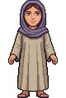
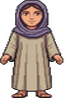
Fix Maria cutout background and ground alignment in world

diff --git a/apps/mobile-app/app/(tabs)/world.tsx b/apps/mobile-app/app/(tabs)/world.tsx
@@ -183,6 +183,15 @@ export default function WorldScreen() {
     }
   };
 
+  useEffect(() => {
+    if (!mariaUnlocked) return;
+    if (mariaAnchor.ny >= 0.63) return;
+    const next = { nx: mariaAnchor.nx, ny: 0.64 };
+    setMariaAnchor(next);
+    mariaAnchorRef.current = next;
+    void persistMariaAnchor(next.nx, next.ny);
+  }, [mariaAnchor.nx, mariaAnchor.ny, mariaUnlocked]);
+
   const reactNpcTouch = () => {
     const messages = ["좋아, 바로 도울게.", "오늘도 함께 가자.", "지금 필요한 일부터 보자."];
     setNpcReaction(messages[Math.floor(Math.random() * messages.length)]);
@@ -331,7 +340,7 @@ export default function WorldScreen() {
               </Animated.View>
 
               {mariaUnlocked ? (
-                <Animated.View
+                <View
                   {...mariaPanResponder.panHandlers}
                   style={{
                     position: "absolute",
@@ -339,12 +348,22 @@ export default function WorldScreen() {
                     top: mariaTop,
                     width: mariaW,
                     height: mariaH,
-                    transform: [{ translateY: npcFloat }],
                     zIndex: 13,
                   }}
                 >
+                  <View
+                    style={{
+                      position: "absolute",
+                      left: "18%",
+                      right: "18%",
+                      bottom: -2,
+                      height: 8,
+                      borderRadius: 999,
+                      backgroundColor: "rgba(0,0,0,0.18)",
+                    }}
+                  />
                   <Image source={WORLD_MARIA_NPC} style={{ width: "100%", height: "100%" }} resizeMode="contain" />
-                </Animated.View>
+                </View>
               ) : panelVisible.attendance ? (
                 <View
                   style={{

diff --git a/apps/mobile-app/lib/world-npc-layout.ts b/apps/mobile-app/lib/world-npc-layout.ts
@@ -16,7 +16,7 @@ export type WorldNpcLayout = {
 
 const DEFAULT_LAYOUT: WorldNpcLayout = {
   jesus: { nx: 0.5, ny: 0.64 },
-  maria: { nx: 0.73, ny: 0.59 },
+  maria: { nx: 0.73, ny: 0.64 },
 };
 
 function clamp01(value: number) {
